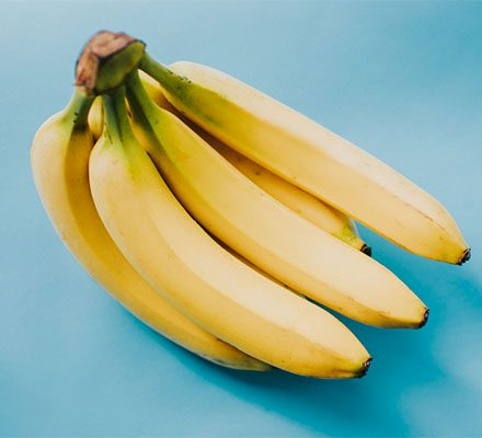
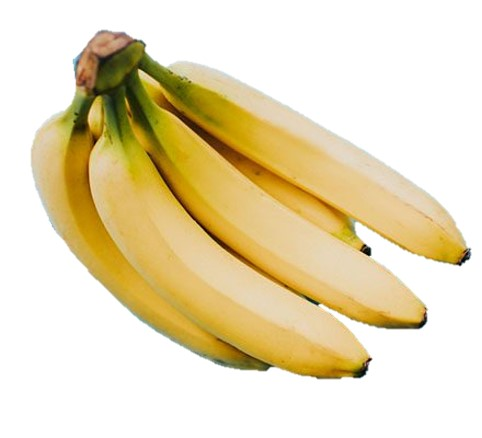
png

diff --git a/index.html b/index.html
@@ -52,7 +52,7 @@
 		<!-- Offers images -->
 		<div class="offers">
 			<a href="products/products.html" class="offer">
-				<img src="images/bana.jpg" alt="Offer 1">
+				<img src="images/Bananas.png" alt="Offer 1">
 				<div class="overlay">-10%</div>
 			</a>
 			<a href="products/products.html" class="offer">
@@ -60,7 +60,7 @@
 				<div class="overlay">-15%</div>
 			</a>
 			<a href="products/products.html" class="offer">
-				<img src="images/toma.jpg" alt="Offer 3">
+				<img src="images/Tomatoes.png" alt="Offer 3">
 				<div class="overlay">-20%</div>
 			</a>
 			<a href="products/products.html" class="offer">
